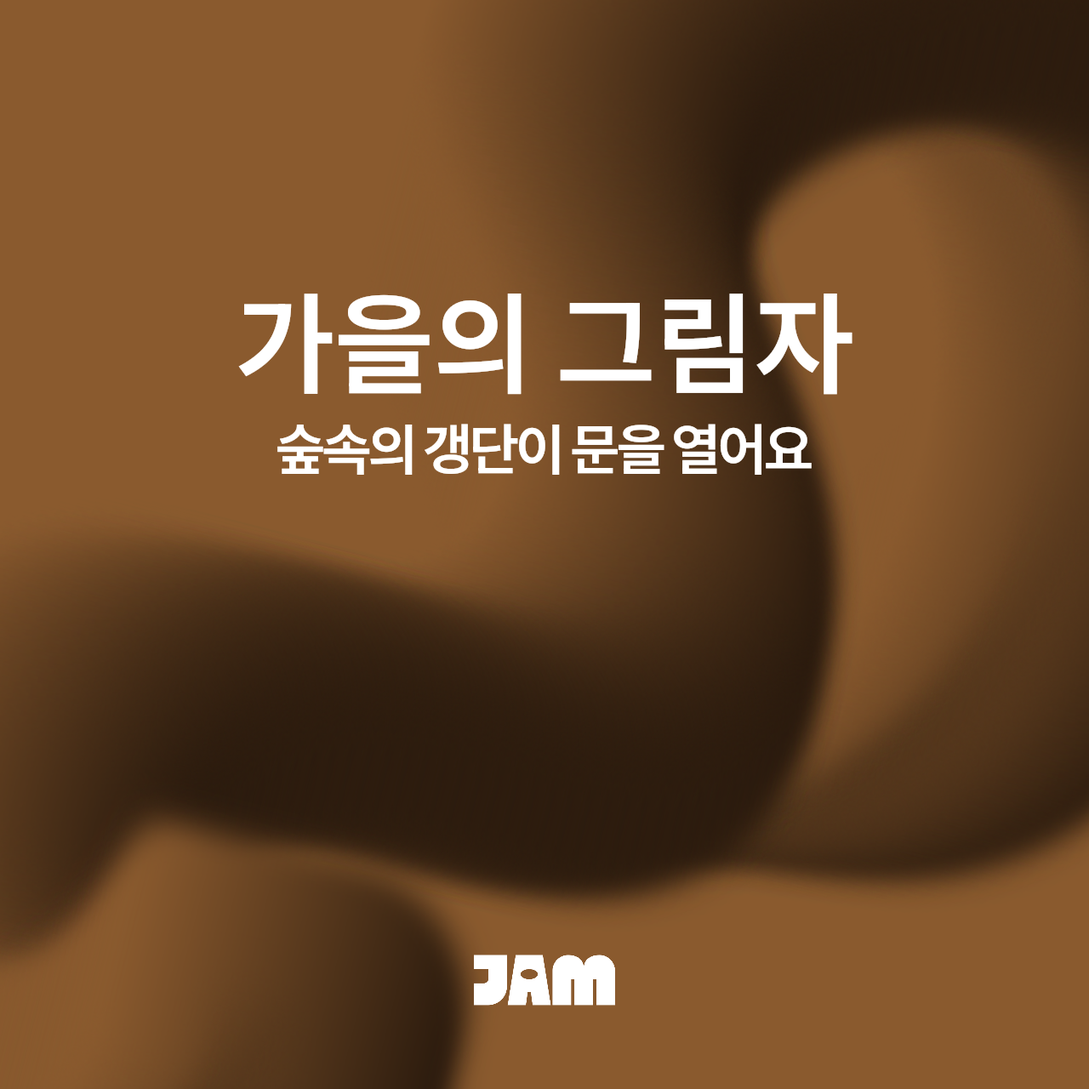
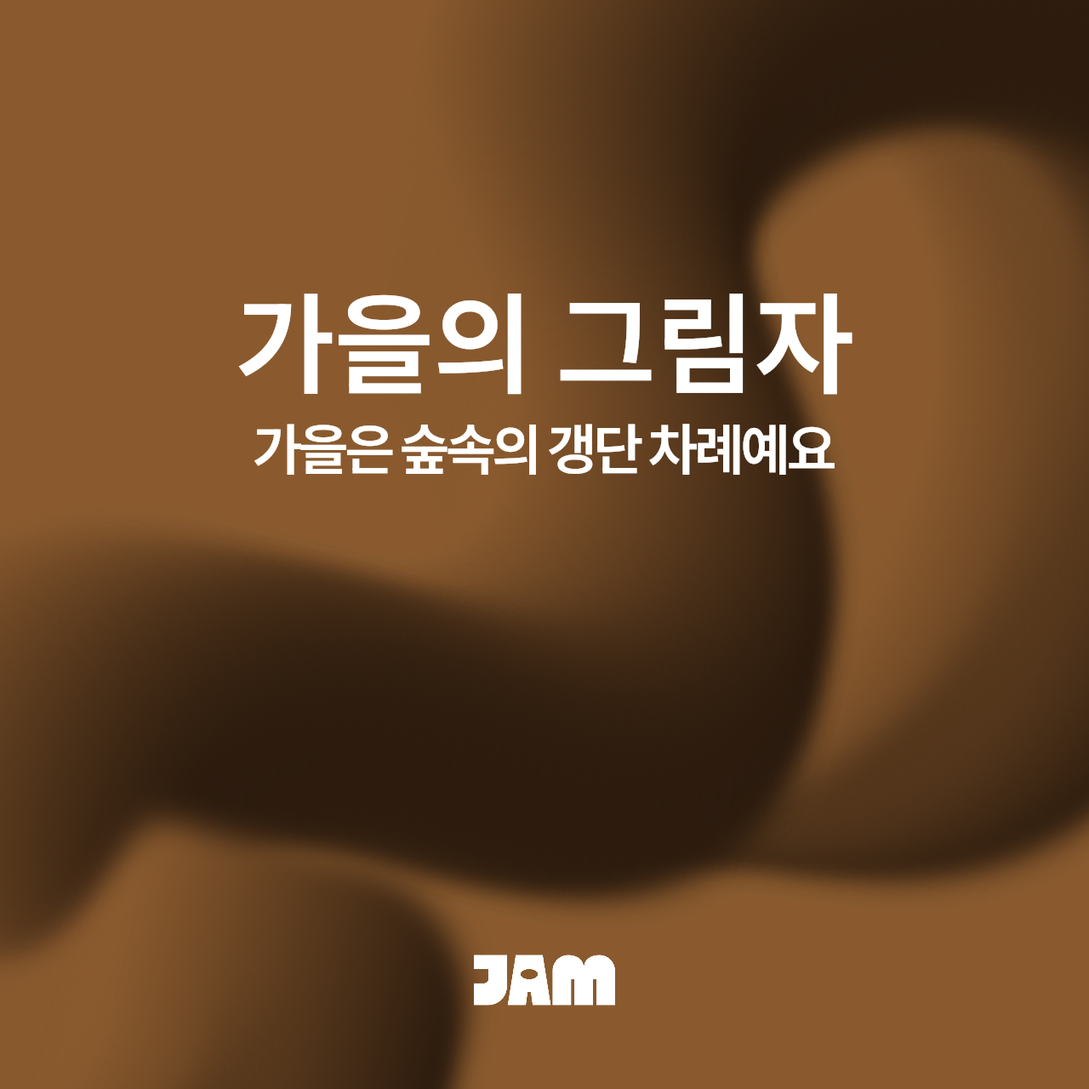
게재 문안·운영 메모 분리 규칙(설명문 40자·2줄, 바로가기형 미표시)을 PRD §8·윤진 정의·루틴 초안에 반영, W40 월 A 윈터 재검수 반영·이미지 재렌더, 설명문 칸 추가 티켓 생성 (티켓 20260929_1250·20260929_1335)

Changed region(s): [[0.2188, 0.375, 0.7812, 0.4375]]

diff --git a/jam-doc/operations/reports/weekly/2026-W40.md b/jam-doc/operations/reports/weekly/2026-W40.md
@@ -133,7 +133,7 @@
 
 | 요일 | 주제 | 후보 A | 후보 B | 윤진 1픽 | 전원 카드 | 최종 선택 | 승인 |
 |---|---|---|---|---|---|---|---|
-| 월(10/5) | 가을 컬렉션 스토리 | `all` · T01 · 숲속의 갱단 · 제목 「가을의 그림자」 · 부제 「숲속의 갱단이 문을 열어요」 · 템플릿 에디토리얼 기사·레이아웃 large_thumbnail · 목적지 컬렉션 상세(`/collections/68a6ef7d-8ef3-117b-b25c-1418e1c5d416`, 그루터기 살롱의 장물들) [사람]<br>![](./2026-W40-images/2026-10-05-forest-gang-editorial/image.png)<br>컬러: 배경 `#8a5a2e` → 끝 `#2a1a0d`, 근거 채원 추천①(흰 글자 대비 통과), 시드 2935976411 | `itembook_remaining_le3` · T02 · 공통 · 제목 「거의 다 모았어요」 · 부제 「컬렉션 빈칸이 몇 칸 안 남았어요」 · 템플릿 컬렉션 소식·레이아웃 shortcut · 목적지 컬렉션 목록(`/collections`) [자동]<br>이미지 없음(shortcut) | A | A | | [ ] |
+| 월(10/5) | 가을 컬렉션 스토리 | `all` · T01 · 숲속의 갱단 · 제목 「가을의 그림자」 · 부제 「가을은 숲속의 갱단 차례예요」 · 템플릿 에디토리얼 기사·레이아웃 large_thumbnail · 목적지 컬렉션 상세(`/collections/68a6ef7d-8ef3-117b-b25c-1418e1c5d416`, 그루터기 살롱의 장물들) [사람]<br>![](./2026-W40-images/2026-10-05-forest-gang-editorial/image.png)<br>컬러: 배경 `#8a5a2e` → 끝 `#2a1a0d`, 근거 채원 추천①(흰 글자 대비 통과), 시드 2935976411 | `itembook_remaining_le3` · T02 · 공통 · 제목 「거의 다 모았어요」 · 부제 「컬렉션 빈칸이 몇 칸 안 남았어요」 · 템플릿 컬렉션 소식·레이아웃 shortcut · 목적지 컬렉션 목록(`/collections`) [자동]<br>이미지 없음(shortcut) | A | A | | [ ] |
 | 화(10/6) | 배지 한 걸음 | `all` · T07 · 공통 · 제목 「한 걸음 더」 · 부제 「다음 배지가 가까워요」 · 템플릿 진행 알림·레이아웃 large_thumbnail · 목적지 배지 상세(`/badges/478d2b17-561f-437f-addb-43aa6f86b22d`, '더 높이') [자동]<br>![](./2026-W40-images/2026-10-06-progress-nudge-all/image.png)<br>컬러: 배경 `#b83618` → 끝 `#5c1a0c`, 근거 채원 추천①, 시드 4239714440 | `strava_stale_14d` · T03 · 공통 · 제목 「오랜만이네요」 · 부제 「스트라바 다시 연결해볼까요」 · 템플릿 진행 알림·레이아웃 shortcut · 목적지 프로필(`/profile`) [자동]<br>이미지 없음(shortcut) | A | A | | [ ] |
 | 수(10/7) | 시즌 미션 — 겨울 채비 | `all` · T04 · 숲속의 갱단 · 제목 「그루터기 살롱의 겨울 채비」(미션 원제목 그대로) · 템플릿 미션 소개(mission_spotlight)·레이아웃 large_thumbnail · 목적지 미션 상세(`/missions/b1009708-3258-477d-9278-107ad2c67d12`) [초안]<br>이미지: 미션 대표 이미지(`missions.image_url`) 재사용, 새로 만들지 않음 | `weather_clear` · T08 · 공통 · 제목 「맑은 날엔 밖으로」 · 부제 「짧은 러닝 어때요」 · 템플릿 드랍 유도·레이아웃 shortcut · 목적지 지도(`/drops`) [자동]<br>이미지 없음(shortcut) | A | A | | [ ] |
 | 목(10/8) | 이번 주 궤적 | `all` · T12 · 공통 · 제목 「이번 주 궤적」 · 부제 「이번 주 활동을 모았어요」 · 템플릿 진행 알림(미션 「그루터기 살롱의 겨울 채비」 참조)·레이아웃 large_thumbnail · 목적지 활동 피드(`/feed`) [초안]<br>![](./2026-W40-images/2026-10-08-weekly-recap-all/image.png)<br>컬러: 배경 `#4a4a4a` → 끝 `#171717`, 근거 채원 추천②, 시드 656335374 | `has_incomplete_itembook` · T02 · 공통 · 제목 「빈칸이 남아 있어요」 · 부제 「내 컬렉션 진행을 확인해요」 · 템플릿 컬렉션 소식·레이아웃 shortcut · 목적지 컬렉션 목록(`/collections`) [자동]<br>이미지 없음(shortcut)<br>(변경: 비활성 컬렉션 「잃어버린 시간」 후보를 컬렉션을 특정하지 않는 후보로 교체) | A | A | | [ ] |
@@ -149,7 +149,7 @@
 
 | 요일·후보 | 템플릿 | 설명(게재 문안) | 운영 메모(게재 안 됨) |
 |---|---|---|---|
-| 월 A | editorial_article | 도시의 가을이 깊어지면 그루터기 살롱의 문이 먼저 열려요.<br><br>도심 공원과 외곽 산자락에는 다람쥐와 길고양이를 닮은 실세들이 살아요. 숲속의 갱단이에요. "방심한 등산객의 가방을 털고, 길가에 흘린 간식에서 가장 맛있는 부분만 빼먹는 범인들." 훔친 물건은 어디로 갈까요? "깊은 숲속 동물들의 비밀 환전소 '그루터기 살롱'에서 도토리와 거래된다."<br><br>그 전리품이 모인 곳이 컬렉션 「그루터기 살롱의 장물들」이에요. "인간들의 방심을 틈타 가방을 털고 간 무법자들의 전리품. 깊은 숲속 그루터기 살롱에서 도토리와 밀거래되고 있다."<br><br>그렇다고 늘 털어 가기만 하는 건 아니에요. "구역을 존중하며 걷는 자들에게는 보물을 슬쩍 흘려두기도 한다." 오늘 공원 한 바퀴든 산자락 한 구간이든, 가방 지퍼를 잠그고 천천히 걸어 보세요. 길 위에서 갱단이 흘린 무언가를 만날지도 몰라요.<br><br>「그루터기 살롱의 장물들」에서 갱단이 털어 간 전리품을 먼저 구경해 보세요. | 노출 전원(`all`). CTA 목적지: 컬렉션 상세 `/collections/68a6ef7d-8ef3-117b-b25c-1418e1c5d416`(그루터기 살롱의 장물들). 인용 출처: `jam-doc/planning/content/TRIBES.md` 「3. 숲속의 갱단」 트라이브 설명·컬렉션 설명. |
+| 월 A | editorial_article | 도시의 가을이 깊어지면 숲속의 갱단이 나설 차례예요.<br><br>도심 공원과 외곽 산자락에는 다람쥐와 길고양이를 닮은 실세들이 살아요. 숲속의 갱단이에요. "방심한 등산객의 가방을 털고, 길가에 흘린 간식에서 가장 맛있는 부분만 빼먹는 범인들." 훔친 물건은 어디로 갈까요? "깊은 숲속 동물들의 비밀 환전소 '그루터기 살롱'에서 도토리와 거래된다."<br><br>그 전리품이 모인 곳이 컬렉션 「그루터기 살롱의 장물들」이에요. "인간들의 방심을 틈타 가방을 털고 간 무법자들의 전리품. 깊은 숲속 그루터기 살롱에서 도토리와 밀거래되고 있다."<br><br>그렇다고 늘 털어 가기만 하는 건 아니에요. "구역을 존중하며 걷는 자들에게는 보물을 슬쩍 흘려두기도 한다." 오늘 공원 한 바퀴든 산자락 한 구간이든, 가방 지퍼는 꼭 잠그고 구역을 존중하며 걸어 보세요. 길 위에서 갱단이 슬쩍 흘려둔 무언가를 만날지도 몰라요.<br><br>「그루터기 살롱의 장물들」에서 갱단이 털어 간 전리품을 먼저 구경해 보세요. | 노출 전원(`all`). CTA 목적지: 컬렉션 상세 `/collections/68a6ef7d-8ef3-117b-b25c-1418e1c5d416`(그루터기 살롱의 장물들). 인용 출처: `jam-doc/planning/content/TRIBES.md` 「3. 숲속의 갱단」 트라이브 설명·컬렉션 설명. |
 | 월 B | itembook_milestone | 마지막 한 칸을 채우러, 오늘은 가까운 길부터 걸어 볼까요? | 노출: `itembook_remaining_le3`(컬렉션 빈칸 3칸 이하). 이동: `/collections`. |
 | 화 A | progress_nudge | 배지 「더 높이」를 향해 오늘도 한 걸음 보태 봐요. 짧게 걸어도 괜찮아요. | 노출 전원. 이동: 배지 상세 `/badges/478d2b17-561f-437f-addb-43aa6f86b22d`('더 높이'). |
 | 화 B | progress_nudge | 한동안 쉬어 가도 괜찮아요. 준비되면 다시 달릴 때 이어서 시작해요. | 노출: `strava_stale_14d`(Strava 동기화 14일 이상 정지). 이동: `/profile`. |
@@ -170,7 +170,7 @@
 
 | 요일 | 카드 | 레이아웃 | 이미지 필요 | 제목(text01, ≤11자) | 요약(text02, ≤22자) | 결과 |
 |---|---|---|---|---|---|---|
-| 월 | T01 전원 카드(A) | large_thumbnail | 필요 — 신규 렌더 1/7 | 가을의 그림자 | 숲속의 갱단이 문을 열어요 | 성공 · 묶음 `2026-10-05-forest-gang-editorial` · 771,826 B · 시드 2935976411 · `--dry-run` 형식 통과 · 세계관 검수 완료(`winter_reviewed: true`) |
+| 월 | T01 전원 카드(A) | large_thumbnail | 필요 — 신규 렌더 1/7 | 가을의 그림자 | 가을은 숲속의 갱단 차례예요 | 성공 · 묶음 `2026-10-05-forest-gang-editorial` · 771,856 B · 시드 2935976411 · `--dry-run` 형식 통과 · 세계관 검수 완료(`winter_reviewed: true`) |
 | 화 | T07 전원 카드(A) | large_thumbnail | 필요 — 신규 렌더 2/7 | 한 걸음 더 | 다음 배지가 가까워요 | 성공 · 묶음 `2026-10-06-progress-nudge-all` · 443,818 B · 시드 4239714440 · `--dry-run` 형식 통과 |
 | 수 | T04 미션 소개 카드(A) | large_thumbnail | 불필요 — 미션 대표 이미지(`missions.image_url`) 재사용, 새로 만들지 않음 | (재사용, 신규 텍스트 없음) | (재사용) | 그루터기 살롱의 겨울 채비 image_url 사용, 7장 상한에 포함 안 됨 |
 | 목 | T12 전원 카드(A) | large_thumbnail | 필요 — 신규 렌더 3/7 | 이번 주 궤적 | 이번 주 활동을 모았어요 | 성공 · 묶음 `2026-10-08-weekly-recap-all` · 156,538 B · 시드 656335374 · `--dry-run` 형식 통과 |

diff --git a/.claude/skills/jam-work/references/scheduled-jobs.md b/.claude/skills/jam-work/references/scheduled-jobs.md
@@ -184,7 +184,7 @@ GA4는 광고 차단기 유저를 놓치고 일부 이벤트가 특정 경로에
 | 저장 | `jam-doc/operations/reports/weekly/YYYY-Www.md` (브리핑과 홈피드 초안을 한 파일에) + 이미지가 있으면 `jam-doc/operations/reports/weekly/YYYY-Www-images/<묶음 ID>/`(`image.png`·`bundle.json`) |
 | 읽는 것 | 지난 주간 리포트 최대 4개 |
 | 프롬프트 초안 (카즈하) | "지난 1주 실행 점검 결과를 `forms/weekly-briefing-format.md` 형식으로 작성해줘. 지표는 GA4 스크립트와 어드민 집계 API로 수집하고, 실패한 출처는 1회만 재시도한 뒤 맨 위 '수집 실패'에 적어. 「워크플로 수치」 절은 `node scripts/ticket-metrics.mjs --since <지난 리포트 날짜>`를 실행해 나온 표를 그대로 붙여. 「공개 미션 점검」 절에는 `node scripts/admin-api-read.mjs`가 출력하는 「공개 미션 점검」·「상시 공개 미션 보상 배지」 두 줄(`[주의]`와 「확인 불가」 표시 포함)을 판단하지 말고 그대로 옮겨 적어. 개인 식별 정보는 쓰지 말고 집계 수치만 남겨." |
-| 프롬프트 초안 (윤진) | "다음 주 홈피드 편성 후보안을 이 리포트의 '홈피드 초안' 절에 PRD §8 형식(요일별 후보 A/B/C, 유형 ID·세그먼트·트라이브·문안 방향·등급, 윤진 1픽, 최종 선택·승인 빈 칸, 트라이브·유형 분포)으로 써줘. 유형은 PRD §6 카탈로그 17종만, 세그먼트는 PRD §5 현재 태그만, 트라이브 화자는 TRIBES.md 매핑 절만 따르고, 코퍼스는 `GET /api/admin/content-corpus?type=<유형 ID>&limit=3`(어드민 자동화 읽기 토큰)으로 받은 원문만 그대로 써. 이슈 소재는 최근 월간 리포트의 필터 통과분만. 모든 요일·모든 후보의 설명을 표 아래 「후보 설명」 표에 후보별 한 행으로 써 — 에디토리얼 기사는 본문 전문과 CTA 목적지, 그 밖의 템플릿은 짧은 설명 1~2문장(승인 뒤에 본문을 새로 쓰지 않는다). 네가 쓰는 문장은 해요체로 쓰고 세계관 원문은 큰따옴표로 인용해 원문 어미를 유지해. 기사 본문은 설명 → 킥(유저가 해 보고 싶어질 한 방, 원문에 없는 설정·보상은 지어내지 않음) → CTA 순서로 써(PRD §8 「설명」·「말투」·「기사 본문 구성」). T06·T10(믹스 유도)은 PRD §15의 「믹스 레시피」 칸이 1건 이상일 때만 써. 요일마다 전원(`all`) 카드가 1장 이상 있어야 하니, 1픽이 조건 태그 카드면 「전원 카드」 칸에 전원 대상 후보를 함께 써. 지난 결과 기록과 이번 브리핑 지표를 먼저 확인해. 후보를 다 쓰면 이미지가 필요한 카드(large_thumbnail·banner·에디토리얼 기사, `HOME_FEED_REGISTRATION_BUNDLE.md` §1.1)만 골라 주 7장 이내로 이미지를 만들어(윤진 1픽을 먼저) — 루틴 본체는 이미지 단계 전에 `cd jam-web && npm ci`를 실행하고, 색은 채원(색 후보 1~3쌍·대비)과 윈터(세계관 적합)를 직접 불러 받은 결과로만 정해(윤진은 색을 정하지 않는다) — 윤진이 `홈피드` 프리셋(`list-presets.mjs --target-type home_feed`)으로 `render.mjs`(제목 `--text01` 11자 이하·요약 `--text02` 22자 이하)를 실행하고 묶음 `bundle.json`(`world_review.winter_reviewed`는 실제로 부른 윈터의 결과)을 `jam-doc/operations/reports/weekly/<YYYY-Www>-images/<묶음 ID>/`에 쓰고 `register-home-feed-card.mjs --bundle <절대경로> --dry-run`으로 형식만 검증해. 표 후보 칸에는 `![](./<YYYY-Www>-images/<묶음 ID>/image.png)`와 배경색·끝색·선택 근거를 적어. 이미지가 필요 없는 카드는 「이미지 없음(사유)」, `ADMIN_API_BASE_URL`·`ADMIN_API_READ_TOKEN`이 없거나 `render.mjs`가 실패하거나 채원·윈터 결과가 없으면 임의 색이나 자리표시 이미지로 채우지 말고 「이미지 준비 대기(사유)」, 장당 2MB를 넘으면 「이미지 없음(용량 초과)」로 표시해. `--dry-run`이 참조 ID 존재·중복 검사를 「건너뜀」으로 표시하는 것은 그대로 적어(사용자 승인 뒤 메인 세션이 등록 전에 다시 검사해). 등록 실행·`--undo`·프리셋 생성·수정·DB·스토리지 쓰기는 하지 마. 다 쓰면 `node scripts/slack-post.mjs --channel C0C2U1T186M --text <안내 글>`로 안내 글을 올리고 안내 글에 「이미지 N장 포함」 한 줄을 넣어." |
+| 프롬프트 초안 (윤진) | "다음 주 홈피드 편성 후보안을 이 리포트의 '홈피드 초안' 절에 PRD §8 형식(요일별 후보 A/B/C, 유형 ID·세그먼트·트라이브·문안 방향·등급, 윤진 1픽, 최종 선택·승인 빈 칸, 트라이브·유형 분포)으로 써줘. 유형은 PRD §6 카탈로그 17종만, 세그먼트는 PRD §5 현재 태그만, 트라이브 화자는 TRIBES.md 매핑 절만 따르고, 코퍼스는 `GET /api/admin/content-corpus?type=<유형 ID>&limit=3`(어드민 자동화 읽기 토큰)으로 받은 원문만 그대로 써. 이슈 소재는 최근 월간 리포트의 필터 통과분만. 모든 요일·모든 후보의 설명을 표 아래 「후보 설명」 표(요일·후보 | 템플릿 | 설명(게재 문안) | 운영 메모(게재 안 됨))에 후보별 한 행으로 써 — 게재 문안은 유저가 읽을 글 그대로다: 에디토리얼 기사는 본문 전문, 그 밖의 템플릿은 카드 `description`에 들어갈 설명문 한 문장(40자 이하, 바로가기형 레이아웃에는 보이지 않음). 노출 조건·「이 카드는」·「누르면 ~로 가요」·출처·ID는 게재 문안에 쓰지 말고 운영 메모 칸에 써(승인 뒤에 본문을 새로 쓰지 않는다). 네가 쓰는 문장은 해요체로 쓰고 세계관 원문은 큰따옴표로 인용해 원문 어미를 유지해. 기사 본문은 설명 → 킥(유저가 해 보고 싶어질 한 방, 원문에 없는 설정·보상은 지어내지 않음) → CTA 순서로 써(PRD §8 「설명」·「말투」·「기사 본문 구성」). T06·T10(믹스 유도)은 PRD §15의 「믹스 레시피」 칸이 1건 이상일 때만 써. 요일마다 전원(`all`) 카드가 1장 이상 있어야 하니, 1픽이 조건 태그 카드면 「전원 카드」 칸에 전원 대상 후보를 함께 써. 지난 결과 기록과 이번 브리핑 지표를 먼저 확인해. 후보를 다 쓰면 이미지가 필요한 카드(large_thumbnail·banner·에디토리얼 기사, `HOME_FEED_REGISTRATION_BUNDLE.md` §1.1)만 골라 주 7장 이내로 이미지를 만들어(윤진 1픽을 먼저) — 루틴 본체는 이미지 단계 전에 `cd jam-web && npm ci`를 실행하고, 색은 채원(색 후보 1~3쌍·대비)과 윈터(세계관 적합)를 직접 불러 받은 결과로만 정해(윤진은 색을 정하지 않는다) — 윤진이 `홈피드` 프리셋(`list-presets.mjs --target-type home_feed`)으로 `render.mjs`(제목 `--text01` 11자 이하·요약 `--text02` 22자 이하)를 실행하고 묶음 `bundle.json`(`world_review.winter_reviewed`는 실제로 부른 윈터의 결과)을 `jam-doc/operations/reports/weekly/<YYYY-Www>-images/<묶음 ID>/`에 쓰고 `register-home-feed-card.mjs --bundle <절대경로> --dry-run`으로 형식만 검증해. 표 후보 칸에는 `![](./<YYYY-Www>-images/<묶음 ID>/image.png)`와 배경색·끝색·선택 근거를 적어. 이미지가 필요 없는 카드는 「이미지 없음(사유)」, `ADMIN_API_BASE_URL`·`ADMIN_API_READ_TOKEN`이 없거나 `render.mjs`가 실패하거나 채원·윈터 결과가 없으면 임의 색이나 자리표시 이미지로 채우지 말고 「이미지 준비 대기(사유)」, 장당 2MB를 넘으면 「이미지 없음(용량 초과)」로 표시해. `--dry-run`이 참조 ID 존재·중복 검사를 「건너뜀」으로 표시하는 것은 그대로 적어(사용자 승인 뒤 메인 세션이 등록 전에 다시 검사해). 등록 실행·`--undo`·프리셋 생성·수정·DB·스토리지 쓰기는 하지 마. 다 쓰면 `node scripts/slack-post.mjs --channel C0C2U1T186M --text <안내 글>`로 안내 글을 올리고 안내 글에 「이미지 N장 포함」 한 줄을 넣어." |
 | 반영 | 주간 루틴 실행 뒤 첫 세션에서 카리나가 브리핑을 보고한다. 전략 변경안은 사람이 승인해야만 다음 주 편성 지시문에 반영되고(자동 반영 금지), 유형 리뷰의 제거·수정 판정은 세션에서 사용자 승인 후 PRD §6 표를 고친다(티켓 20260923_2300·2301). 홈피드 편성 후보안은 **7일 묶음을 한 번에 승인하되 요일마다 후보 택1**이다. 사람이 리포트의 「최종 선택」·「승인」 칸을 채우거나 슬랙 안내 글 스레드에 본인 글로 선택을 남기면(다음 세션에서 카리나가 읽어 반영, 5-4), 카리나(메인 세션)가 PRD §8-2 절차로 등록한다(카즈하는 읽기 전용이라 등록하지 않는다. 화·수·목 주기 전환은 티켓 20260924_0806, 루틴 실행 시각은 사용자 확인 뒤 교체하며 2026-09-24 화요일 09:00로 바꿨다). 유형 ID는 카드의 `content_type_id`에 넣는다(티켓 20260923_2259 이후) |
 | 상태 | 켜짐 |
 

diff --git a/docs/specs/prd/content-automation/PRD.md b/docs/specs/prd/content-automation/PRD.md
@@ -167,10 +167,10 @@ code:
 | 월 | ... | 세그먼트 · 유형ID · 트라이브 · 제목/부제 · 템플릿·레이아웃 · 목적지(§6 표) [등급] · **설명:** (아래 「설명」 규칙) | ... | ... | A | 1픽(1픽이 `all`일 때) 또는 전원 대상 후보 | (비움) | [ ] |
 
 ### 후보 설명
-| 요일·후보 | 템플릿 | 설명 |
-|---|---|---|
-| 월 A | editorial_article | (기사 본문 전문, 문단은 `<br><br>`로 구분) · CTA 목적지 |
-| 월 B | progress_nudge 등 | (짧은 설명 1~2문장) |
+| 요일·후보 | 템플릿 | 설명(게재 문안) | 운영 메모(게재 안 됨) |
+|---|---|---|---|
+| 월 A | editorial_article | (기사 본문 전문, 문단은 `<br><br>`로 구분) | 노출 조건 · CTA 목적지 · 인용 출처 |
+| 월 B | progress_nudge 등 | (카드 설명문 40자 이하) | 노출 조건 · 이동 목적지 · 근거 |
 
 ### 트라이브·유형 분포
 - 트라이브: 0회·2회 이상인 트라이브 표시
@@ -182,9 +182,10 @@ code:
 - **T06·T10(믹스 유도)은 등록된 믹스 레시피가 있을 때만** 편성한다. 레시피 현황은 §15 「구현 상태」 표의 「믹스 레시피」 칸을 따르고, 0건이면 두 유형을 후보에 넣지 않는다(2026-09-24 레시피 0건 확인, 티켓 [20260924_0902](../../../tickets/p2-normal/20260924_0902_Content_믹스-레시피가-0건이라-믹스-기능을-쓸-수-없음.md)).
 - **요일마다 전원(`all`) 카드가 1장 이상** 있어야 한다. 1픽이 조건 태그 카드면 「전원 카드」 칸에 전원 대상 후보를 함께 쓴다. 조건 태그 카드만 있는 날은 조건에 맞는 유저가 없거나 날씨·특일 값이 저장되지 않으면 홈이 빈다(티켓 [20260924_0809](../../../tickets/p2-normal/20260924_0809_Feature_매일-전원에게-카드-1장-이상-보장하는-편성-규칙.md)).
 - 후보안을 처음 낼 때 **등록에 필요한 내용을 후보마다 모두 쓴다**(2026-09-24 사용자 결정): 카드 제목·부제, 템플릿·레이아웃, 노출 태그, 노출일, 이동 목적지. 에디토리얼 기사 템플릿(T01·T11·T17 등)은 `body_markdown` 전문과 본문 끝 CTA 목적지(컬렉션·미션·직접 링크)까지 쓴다. 승인 뒤에 본문을 새로 쓰지 않는다.
-- **설명은 모든 요일·모든 후보에 쓰고, 표 바로 아래 「후보 설명」 표에 후보별 한 행으로 보인다**(2026-09-29 사용자 결정, 티켓 [20260929_1250](../../../tickets/p2-normal/20260929_1250_Content_주간-홈피드-초안-설명-보이스-킥-규칙과-이미지-403-정리.md)). 설명의 형태는 카드 템플릿이 정한다.
-  - `editorial_article`: 기사 본문 전문(등록할 `body_markdown` 그대로)과 CTA 목적지. 표 칸 안에서는 문단을 `<br><br>`로 나눈다.
-  - 그 밖의 템플릿(본문 칸이 없는 카드): 짧은 설명 1~2문장. 이 카드가 유저에게 무엇을 보여 주고, 누르면 무엇을 하게 되는지와 그 유저가 반길 이유를 쓴다. 카드에 등록되는 글은 제목·부제뿐이므로, 짧은 설명은 승인 판단을 돕는 글이다.
+- **설명은 모든 요일·모든 후보에 쓰고, 표 바로 아래 「후보 설명」 표에 후보별 한 행으로 보인다**(2026-09-29 사용자 결정, 티켓 [20260929_1250](../../../tickets/p2-normal/20260929_1250_Content_주간-홈피드-초안-설명-보이스-킥-규칙과-이미지-403-정리.md)). 표는 **게재 문안**과 **운영 메모**를 칸으로 나눈다.
+  - 「설명(게재 문안)」: 유저가 홈피드에서 읽게 될 글 그대로다. `editorial_article`은 기사 본문 전문(등록할 `body_markdown` 그대로, 표 칸 안에서는 문단을 `<br><br>`로 나눈다). 그 밖의 템플릿은 카드 설명문 한 문장(40자 이하, 줄바꿈 없음, 화면에서 최대 2줄, 바로가기형 레이아웃에는 보이지 않음)이고, 등록할 때 카드의 `description` 칸에 들어간다(티켓 [20260929_1335](../../../tickets/p2-normal/20260929_1335_Feature_홈피드-카드에-게재용-설명문-칸-추가.md)). 제목·부제와 겹치지 않게, 그날 유저가 움직이고 싶어지게 쓴다.
+  - 게재 문안에 쓰지 않는 것: 노출 조건(「~한 유저에게만 보이는」), 카드·템플릿·세그먼트 같은 운영 용어, 카드 자체에 대한 서술(「이 카드는」·「누르면 ~로 가요」), 근거·출처·ID·확인 날짜. 이런 내용은 운영자에게 설명하는 글이지 유저에게 게재할 글이 아니다(2026-09-29 사용자 지적).
+  - 「운영 메모(게재 안 됨)」: 노출 조건, 이동·CTA 목적지, 인용 출처, DB 확인 사실처럼 승인 판단에 필요한 메타 정보를 짧게 쓴다.
 - **말투(2026-09-29 사용자 결정)**: 윤진이 쓰는 문장(제목·부제·설명·기사 본문)은 서비스 공통 보이스인 해요체로 쓴다(`docs/specs/UX_WRITING_GUIDELINE.md` §2.1, 마케팅 채널 적용은 `jam-doc/marketing/브랜드_보이스_가이드.md` 「어미」). 세계관 원문(TRIBES.md·코퍼스 인용문)은 요약·재작성하지 않는 규칙이 그대로라, 인용할 때는 큰따옴표로 감싸고 화자(트라이브·컬렉션 이름)를 밝혀 원문 어미를 유지한다. 인용 밖의 문장을 원문 말투(`-다`체)에 맞추지 않는다.
 - **기사 본문 구성(2026-09-29 사용자 결정)**: 기사는 컨텐츠 설명으로 끝내지 않는다. 아래 세 부분을 이 순서로 쓴다.
   1. 설명: 이 컬렉션·트라이브·미션이 무엇인지. 원문 인용은 이 부분에 둔다.

diff --git a/docs/tickets/p2-normal/20260929_1335_Feature_홈피드-카드에-게재용-설명문-칸-추가.md b/docs/tickets/p2-normal/20260929_1335_Feature_홈피드-카드에-게재용-설명문-칸-추가.md
@@ -1,0 +1,66 @@
+---
+id: "20260929_1335"
+category: Feature
+priority: P2
+status: OPEN
+created: 2026-09-29
+parent: "20260923_2252"
+specs:
+  - docs/specs/prd/home-feed/PRD.md
+  - docs/specs/prd/content-automation/PRD.md
+  - docs/specs/prd/asset-generator/HOME_FEED_REGISTRATION_BUNDLE.md
+  - docs/specs/prd/02_DATA_MODEL.md
+---
+
+# [Feature] 홈피드 카드에 게재용 설명문 칸 추가
+
+## 핵심 요약
+
+- 요구사항: 에디토리얼 기사가 아닌 홈피드 카드에도 유저에게 보이는 짧은 설명문(40자 이하)을 넣을 수 있게 한다.
+  지금은 제목·부제만 보여서, 주간 편성안의 「설명(게재 문안)」을 담을 곳이 없다(2026-09-29 사용자 결정).
+- 구현 계획: `today_cards.description`(text, nullable) 추가 → 홈 카드 화면이 부제 아래에 표시 → 어드민 폼·상세에서
+  입력·표시 → 홈피드 등록 묶음(`register-home-feed-card.mjs`)이 받는다. 기사(`editorial_article`)는 본문이 있으므로 쓰지 않는다.
+- 관련 파일:
+  - `jam-web/supabase/migrations/197_today_cards_description.sql` (신규: 컬럼 추가 + 되돌림 SQL 주석, 번호는 push 직전 `origin/staging` 기준 재확인)
+  - `jam-web/src/types/database.ts`·`database.generated.ts` — `today_cards` Row/Insert/Update에 `description`
+  - `jam-web/src/app/(main)/TodayCardStack.tsx` — 레이아웃별 렌더 함수에서 `card.subtitle` 출력 바로 아래(94·116·154·193·205·243줄 부근). 어느 레이아웃에 보일지는 채원① 판정을 따른다
+  - `jam-web/src/lib/admin/today-sections.ts` — 폼 값 타입(51줄 부근 `body_markdown` 옆)·`TODAY_FIELDS_FOR`/저장 페이로드 변환(305줄 부근)
+  - `jam-web/src/app/admin/today/TodayCardForm.tsx` — 상태(134줄 부근)·입력 칸·저장 페이로드(334줄 부근)
+  - `jam-web/src/components/admin/today/TodayCardDetail.tsx` — 상세 표시
+  - `jam-web/src/app/api/admin/today/route.ts`·`[id]/route.ts` — 허용 필드 목록이 있으면 추가
+  - `jam-web/scripts/asset-generator/registerHomeFeedBundle.mjs`(검증: 문자열·길이·제어 문자, 기사 템플릿이면 거절)·`registerHomeFeedRecord.mjs`(insert 페이로드)
+  - 테스트: `src/lib/admin/__tests__/today-sections.test.ts`, `src/lib/today/__tests__/today-logic.test.ts`(카드 픽스처), `scripts/asset-generator/__tests__/registerHomeFeedBundle.test.ts`
+  - 문서: home-feed PRD(카드 필드·레이아웃 표시 절, 생성 구간은 `node scripts/gen-team-doc.mjs` 등 근거 설정으로 재생성), `02_DATA_MODEL.md` today_cards 절, `HOME_FEED_REGISTRATION_BUNDLE.md` 필드 표
+
+## 배경 / 문제 정의
+
+- 티켓 20260929_1250에서 주간 편성안의 「후보 설명」을 게재 문안과 운영 메모로 나눴다. 기사 카드는 게재 문안이
+  `body_markdown`으로 들어가지만, 그 밖의 카드는 담을 칸이 없어 승인해도 등록할 수 없다.
+
+## 상세 요구사항
+
+### 서비스/코드베이스 관점
+- `description`은 nullable text. 값이 없으면 화면은 지금과 똑같다(회귀 없음).
+- `editorial_article`은 description을 쓰지 않는다: 어드민 폼은 이 템플릿에서 칸을 숨기고 저장 시 비운다(다른 템플릿 전용 필드와 같은 방식). 등록 묶음은 기사에 description이 있으면 거절한다.
+- 길이 상한: 40자(공백 포함). 어드민 폼과 등록 묶음이 같은 상수를 쓴다. 줄바꿈 불가.
+- 표시: 부제 아래 한 덩어리 문단, 14px(`--text-small`), 넘치면 2줄에서 말줄임(`line-clamp-2`). `shortcut` 레이아웃은 그리지 않고 어드민 폼에 「바로가기형은 화면에 보이지 않아요」 안내를 둔다.
+- 사용자 결정(2026-09-29, 채원① 승인 항목): 2줄 + 40자 상한, 바로가기형 미표시, 14px, 기사 템플릿 전환 시 값 삭제 안내 한 줄.
+
+### UI/UX 관점
+- 채원①이 판정할 것: 어느 레이아웃(`large_thumbnail`·`banner`·`shortcut`·`badge_gallery`·`ranking_list`·`other`)에 보일지, 토큰, 줄 수 제한.
+
+## 완료 조건
+
+### 구현 범위 (게이트 판정 대상)
+- 마이그레이션 파일이 컬럼 추가와 되돌림 SQL(주석)을 담는다. 실행은 하지 않는다.
+- description이 있는 비기사 카드는 채원①이 정한 레이아웃에서 부제 아래에 보이고, 없는 카드는 이전과 같은 모양이다(테스트 또는 스토리로 확인).
+- 어드민 폼에서 비기사 템플릿은 설명문을 입력·수정·저장할 수 있고, 기사 템플릿에서는 칸이 보이지 않고 저장 값이 null이다.
+- `register-home-feed-card.mjs --dry-run`이 description을 받아 insert 페이로드에 넣고, 40자 초과·줄바꿈·기사 템플릿에 description이 있으면 거절한다(테스트).
+- `scripts/verify.sh` 통과.
+
+### 후속 범위 (담당: 카리나, 시점: 머지 뒤)
+- 사용자 승인 뒤 마이그레이션 실행(Supabase MCP), `database.generated.ts` 재생성 필요 여부 확인.
+- 콘텐츠 자동화 PRD §8·윤진 정의·루틴 프롬프트의 「게재 문안」이 description 칸으로 들어간다는 연결(티켓 20260929_1250 후속과 함께).
+
+---
+## 완료 기록 *(작업 완료 후 작성)*

diff --git a/.claude/agents/jam-marketer.md b/.claude/agents/jam-marketer.md
@@ -115,8 +115,9 @@ calendar, ambient-drop schedule, and economy figures stay session-only.
 - 승인은 **7일 묶음을 한 번에, 요일마다 후보 택1**이다. 사람이 수요일 안에 「최종 선택」·「승인」 칸을 채우거나 슬랙 스레드에 남기면
   카리나(메인 세션)가 PRD §8-2 절차(시드 SQL, 목요일 정기 배포 때 실행)로 등록한다. 카즈하는 읽기 전용이라 등록하지 않는다.
 - 후보안은 **처음부터 등록에 필요한 내용을 모두** 쓴다(제목·부제·템플릿·레이아웃·노출 태그·노출일·목적지). 에디토리얼 기사
-  후보는 본문 전문과 CTA 목적지를 쓴다. **모든 요일·모든 후보에 템플릿에 맞는 설명(기사는 본문 전문, 그 밖은 짧은 설명
-  1~2문장)을 표 아래 「후보 설명」 표에 쓰고, 내가 쓰는 문장은 해요체, 세계관 원문은 큰따옴표 인용으로 원문 어미 유지,
+  후보는 본문 전문과 CTA 목적지를 쓴다. **모든 요일·모든 후보의 설명을 표 아래 「후보 설명」 표에 쓰되 유저에게 게재할 문안(기사는 본문 전문, 그 밖은
+  카드 `description`에 들어갈 설명문 40자 이하 한 문장)과 운영 메모(노출 조건·목적지·출처)를 칸으로 나누고 — 게재 문안에 노출 조건이나
+  「이 카드는」 같은 운영자용 설명을 쓰지 않는다 — 내가 쓰는 문장은 해요체, 세계관 원문은 큰따옴표 인용으로 원문 어미 유지,
   기사는 설명 → 킥 → CTA 순서로 쓴다** — 규칙 정본은 PRD §8의 「설명」·「말투」·「기사 본문 구성」 항목이다. 기사 본문은 마크다운으로 렌더되지 않으므로 빈 줄로 문단만 나누고
   `**`·`#`·`-` 같은 문법을 쓰지 않는다(PRD §8). **요일마다 전원(`all`) 카드가 1장 이상** 있어야 한다(PRD §8).
 
